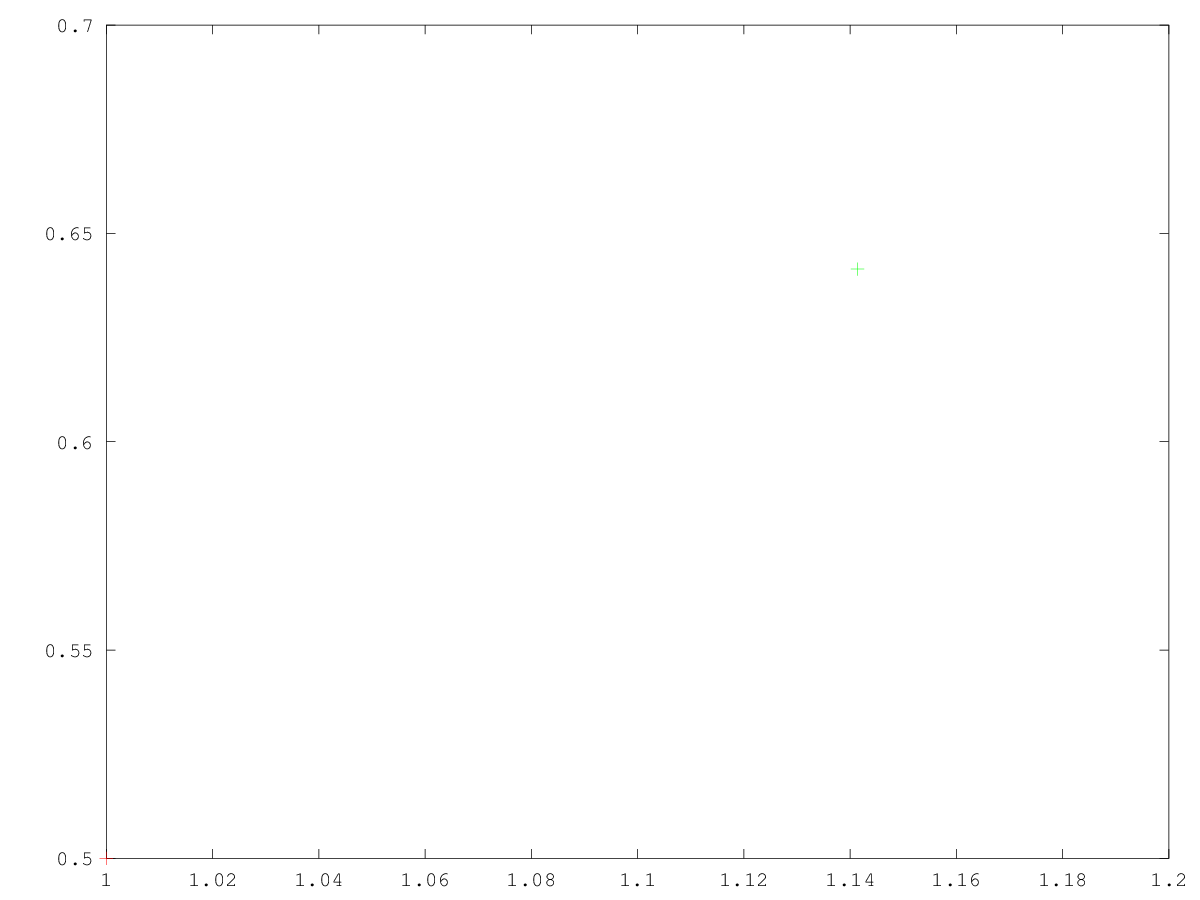
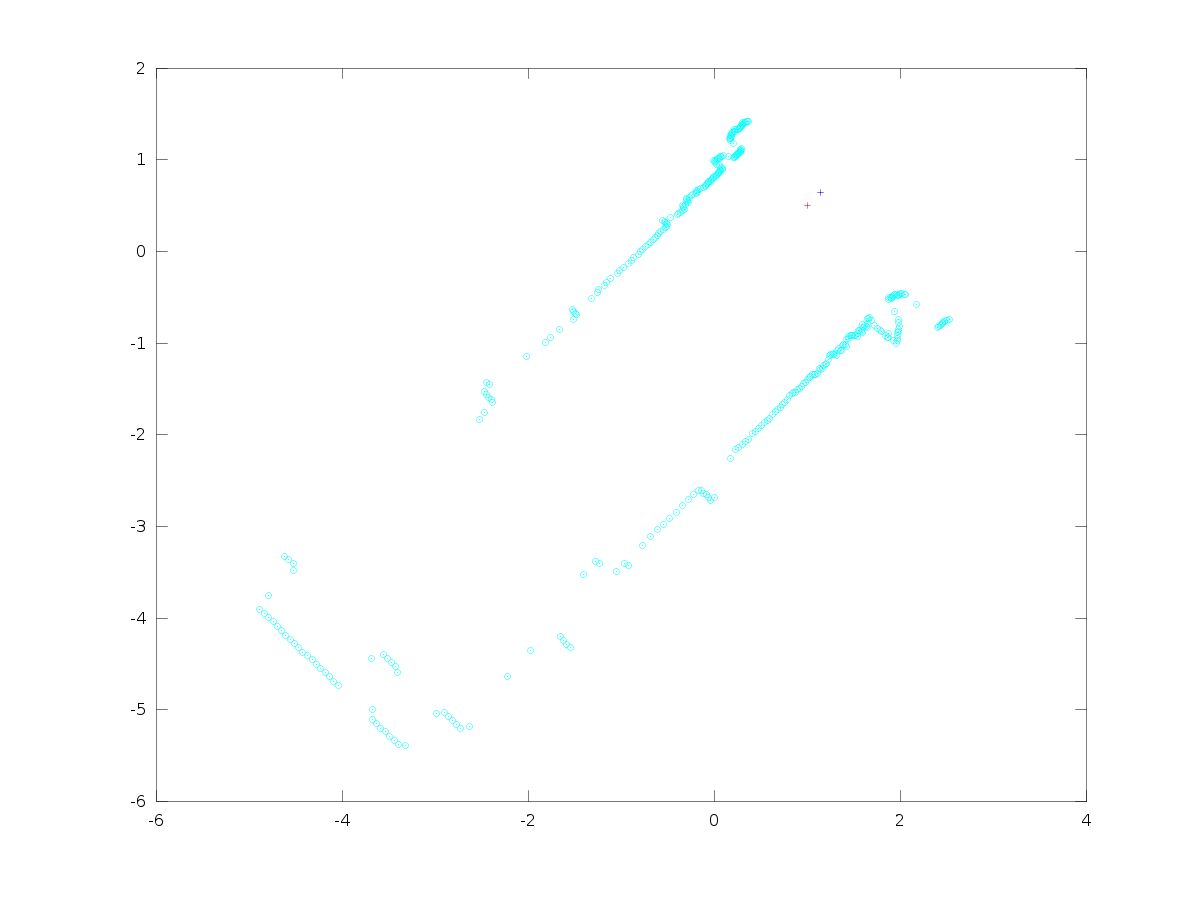
plot ergänzt

diff --git a/Mobile Robotics I/Sheet2/ex3b.m b/Mobile Robotics I/Sheet2/ex3b.m
@@ -4,7 +4,15 @@ x1 = scan .* cos(angle);
 y1 = scan .* sin(angle);
 plot(1,0.5,'@1')
 hold on
-laser = X(1,0.5,(pi)/4)*[0.2;0;1];
-plot(laser(1,1),laser(2,1),'@2')
+X_roboter = X(1,0.5,(pi)/4);
+X_laser = X(0.2,0,(pi));
+pos_laser = X_roboter*[0.2;0;1];
+plot(pos_laser(1,1),pos_laser(2,1),'@3')
+
+for i = 1:size(scan,2)
+  pos_res = X_roboter*X_laser*[x1(i);y1(i);1];
+  plot(pos_res(1,1),pos_res(2,1),'o5')
+endfor
+  
 hold off
 print('ex3b.png', '-dpng')
